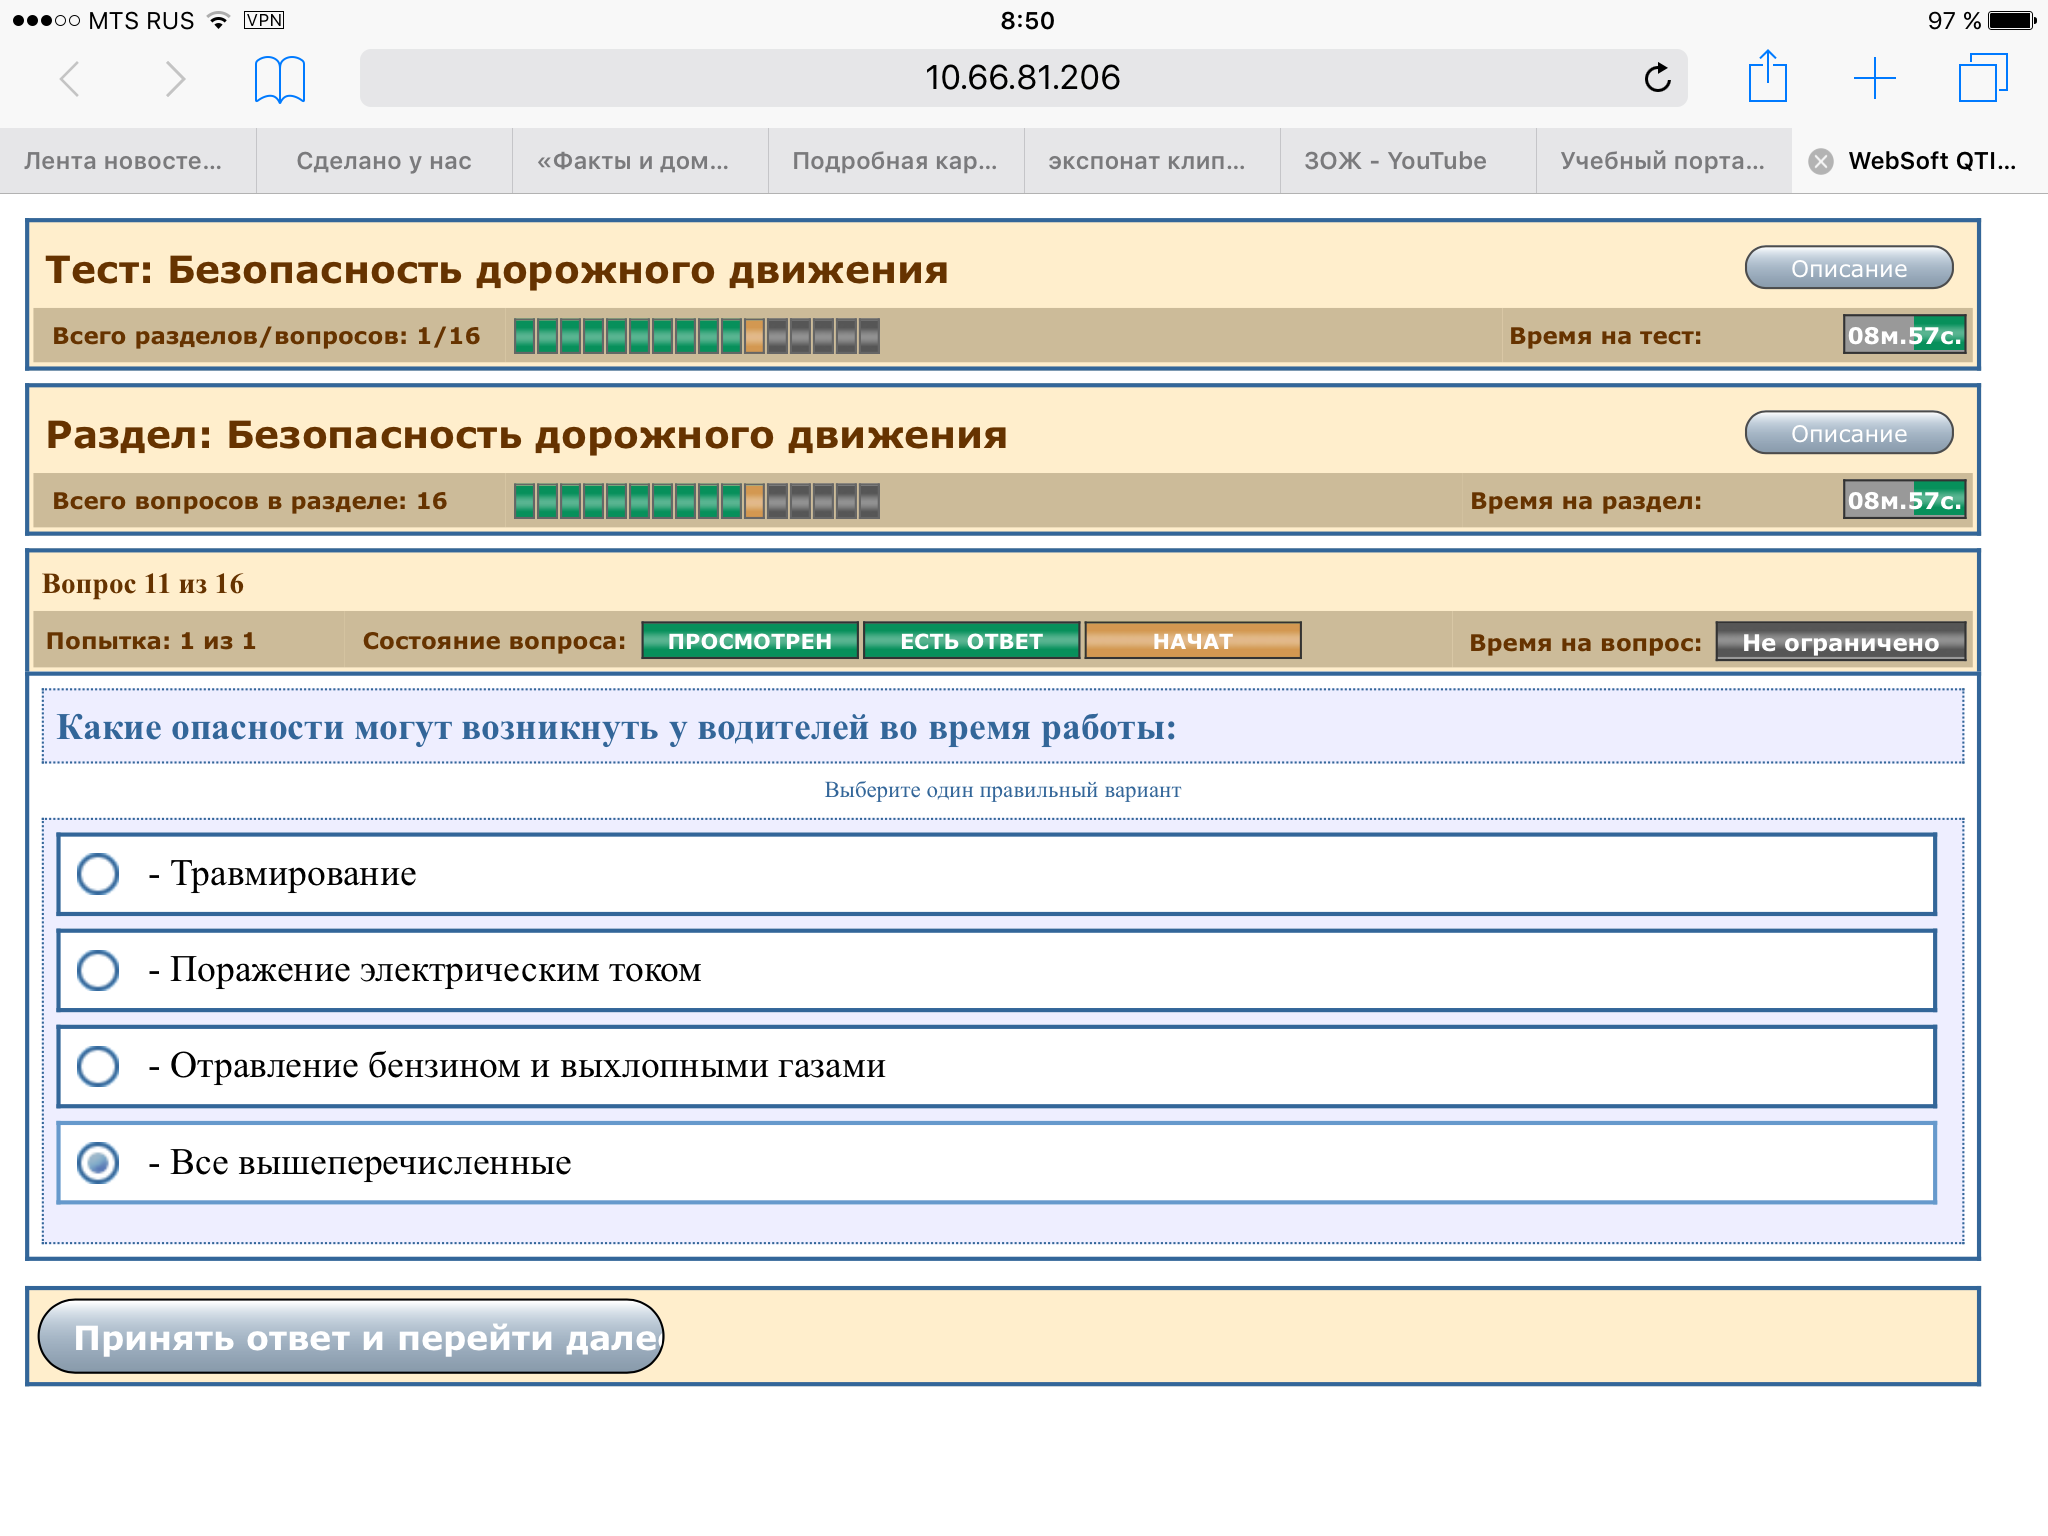
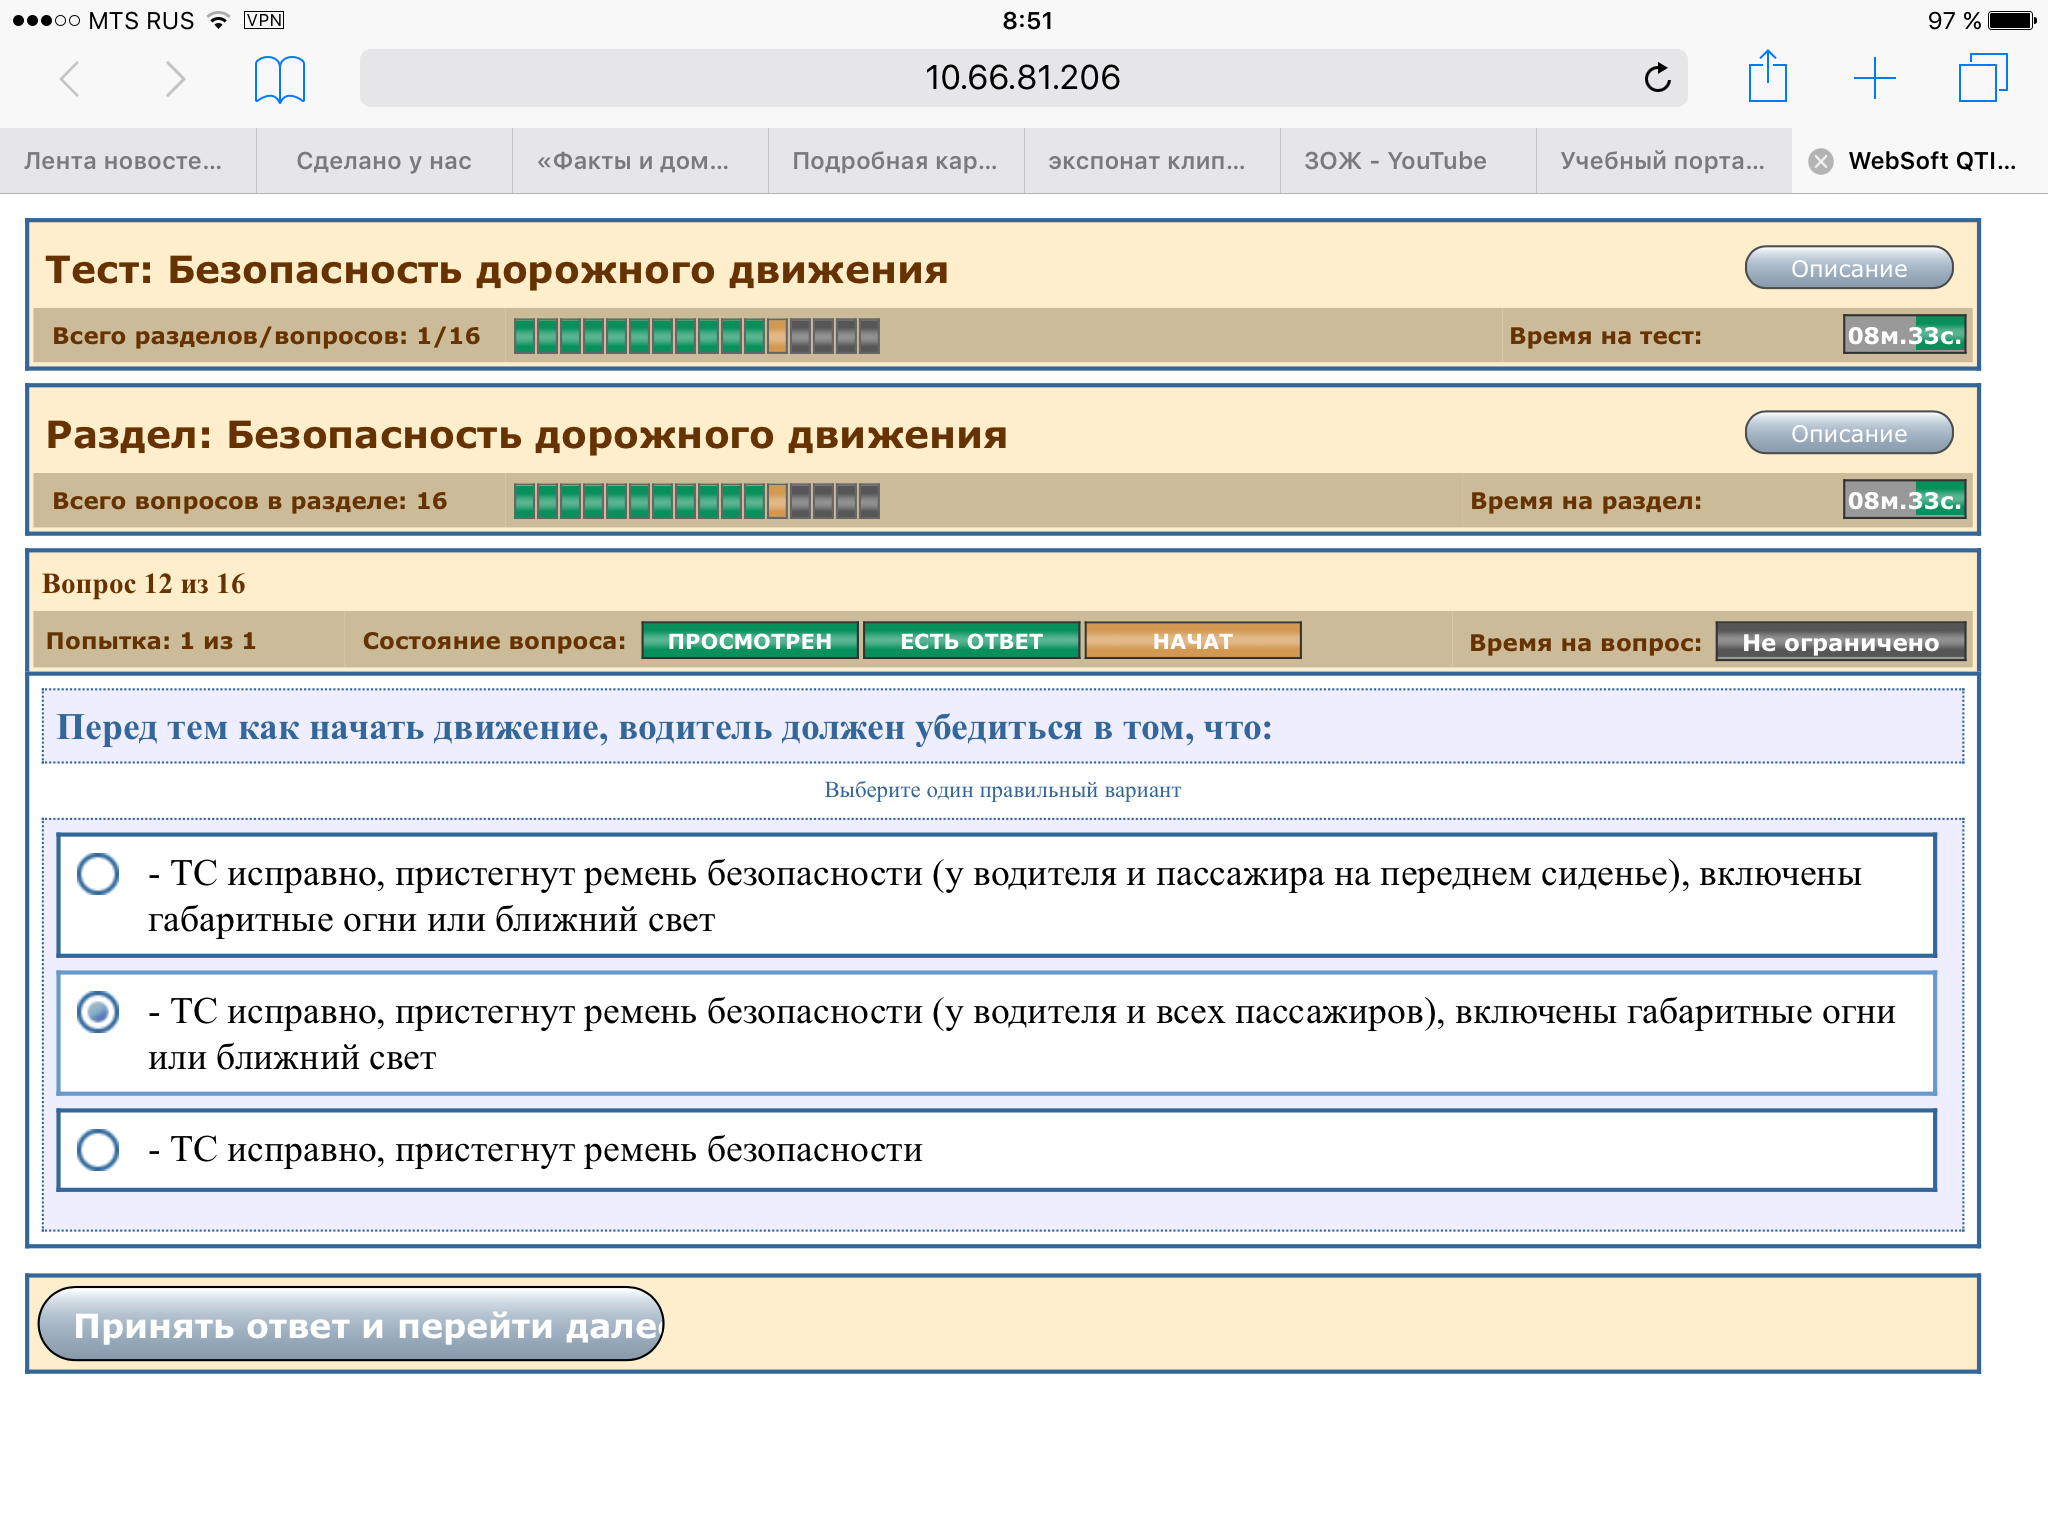
All folders are completed

diff --git a/road safety.html b/road safety.html
@@ -5,9 +5,29 @@
     <meta http-equiv="X-UA-Compatible" content="IE=edge">
     <meta name="viewport" content="width=device-width, initial-scale=1.0">
     <title>БДД</title>
+    <!-- Link for icon--> 
+    <link rel="icon" href="favicon.ico">
+
     <link rel="stylesheet" href="CSS/styles.css">
 </head>
 <body>
-    
+    <div>
+        <ul>
+            <li><a href="Road Safety-images/RS_1.PNG">Где необходимо оставлять служебный автомобиль:</a></li>
+            <li><a href="Road Safety-images/RS_2.PNG"></a>Перед началом работы водитель должен проверить обязательное наличие следующих комплектующих</li>
+            <li><a href="Road Safety-images/RS_3.PNG"></a>В зимнее время необходимо:</li>
+            <li><a href="Road Safety-images/RS_4.PNG"></a>При покидании автомобиля все ценные вещи и документы необходимо:</li>
+            <li><a href="Road Safety-images/RS_5.PNG"></a>В каких случаях помимо алкогольного или наркотического опьянения запрещается пользование автомобилем (2 варианта ответа):</li>
+            <li><a href="Road Safety-images/RS_6.PNG"></a>Несёт ли водитель ответственность за мойку служебного автомобиля:</li>
+            <li><a href="Road Safety-images/RS_7.PNG"></a>При пользлвании служебным автомобилем запрещается:</li>
+            <li><a href="Road Safety-images/RS_8.PNG"></a>Допускаются ли к управлению автомобилем лица, не прошедшие вводный и первичный инструктаж на рабочем месте:</li>
+            <li><a href="Road Safety-images/RS_9.PNG"></a>При возникновении внештатных ситуаций и решении покинуть автомобиль для выяснения обстоятельств водитель должен:</li>
+            <li><a href="Road Safety-images/RS_10.PNG"></a>Какие опасности могут возникнуть у водителей во время работы:</li>
+            <li><a href="Road Safety-images/RS_11.PNG"></a>Перед тем как начать движение, водитель должен убедиться в том, что:</li>
+            <li><a href="Road Safety-images/RS_12.PNG"></a>Последовательность действий сотрудника при ДТП:</li>
+            <li><a href="Road Safety-images/RS_13.PNG"></a>При вынужденной остановке на обочине первым делом необходимо сразу же:</li>
+            <li><a href="Road Safety-images/RS_14.PNG"></a>Как часто проводится инструктаж по безопасности дорожного движемя:</li>
+        </ul>
+    </div>
 </body>
 </html>

diff --git a/index.html b/index.html
@@ -5,6 +5,8 @@
     <meta http-equiv="X-UA-Compatible" content="IE=edge">
     <meta name="viewport" content="width=device-width, initial-scale=1.0">
     <title>Главная</title>
+    <!-- Link for icon--> 
+    <link rel="icon" href="favicon.ico">
 
     <!-- Google fonts -->
 <link rel="preconnect" href="https://fonts.googleapis.com">
@@ -23,8 +25,7 @@
   <script src="https://cdn.jsdelivr.net/npm/bootstrap@5.1.3/dist/js/bootstrap.bundle.min.js" integrity="sha384-ka7Sk0Gln4gmtz2MlQnikT1wXgYsOg+OMhuP+IlRH9sENBO0LRn5q+8nbTov4+1p" crossorigin="anonymous"></script>
  
 
-<!-- Link for icon--> 
-    <link rel="icon" href="favicon.ico">
+
 
 </head>
 <body>

diff --git a/fire safety.html b/fire safety.html
@@ -5,6 +5,9 @@
     <meta http-equiv="X-UA-Compatible" content="IE=edge">
     <meta name="viewport" content="width=device-width, initial-scale=1.0">
     <title>Пож. безопасность</title>
+    <!-- Link for icon--> 
+    <link rel="icon" href="favicon.ico">
+    
     <link rel="stylesheet" href="CSS/styles.css">
 </head>
 <body>

diff --git a/electric.html b/electric.html
@@ -5,6 +5,9 @@
     <meta http-equiv="X-UA-Compatible" content="IE=edge">
     <meta name="viewport" content="width=device-width, initial-scale=1.0">
     <title>Эл. безопасность</title>
+    <!-- Link for icon--> 
+    <link rel="icon" href="favicon.ico">
+    
     <link rel="stylesheet" href="CSS/styles.css">
 </head>
 <body>

diff --git a/first aid.html b/first aid.html
@@ -5,6 +5,9 @@
     <meta http-equiv="X-UA-Compatible" content="IE=edge">
     <meta name="viewport" content="width=device-width, initial-scale=1.0">
     <title>Первая помощь</title>
+    <!-- Link for icon--> 
+    <link rel="icon" href="favicon.ico">
+    
     <link rel="stylesheet" href="CSS/styles.css">
 </head>
 <body>

diff --git a/general issues.html b/general issues.html
@@ -5,6 +5,9 @@
     <meta http-equiv="X-UA-Compatible" content="IE=edge">
     <meta name="viewport" content="width=device-width, initial-scale=1.0">
     <title>Общие вопросы</title>
+    <!-- Link for icon--> 
+    <link rel="icon" href="favicon.ico">
+    
     <link rel="stylesheet" href="CSS/styles.css">
 </head>
 <body>

diff --git a/civil defense.html b/civil defense.html
@@ -5,6 +5,9 @@
     <meta http-equiv="X-UA-Compatible" content="IE=edge">
     <meta name="viewport" content="width=device-width, initial-scale=1.0">
     <title>ГО</title>
+    <!-- Link for icon--> 
+    <link rel="icon" href="favicon.ico">
+    
     <link rel="stylesheet" href="CSS/styles.css">
 </head>
 <body>
